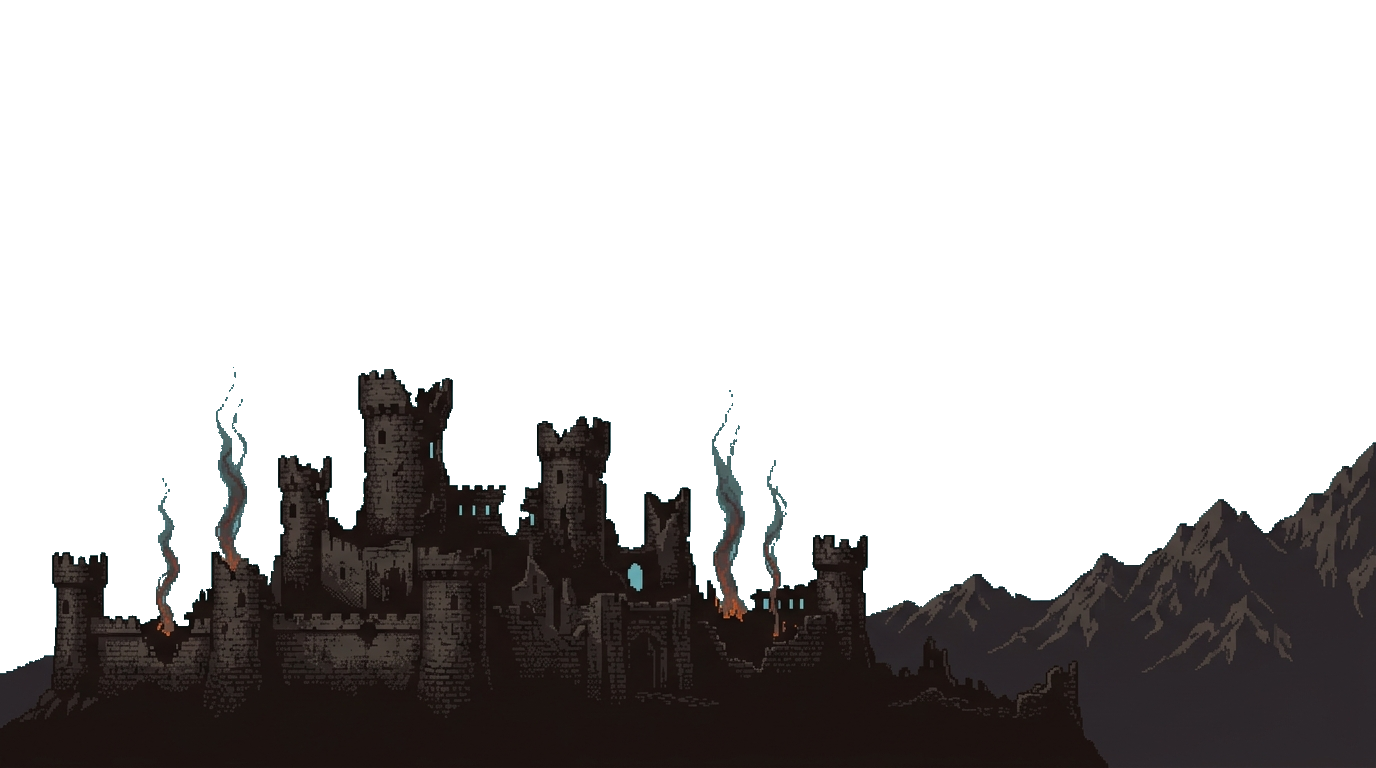
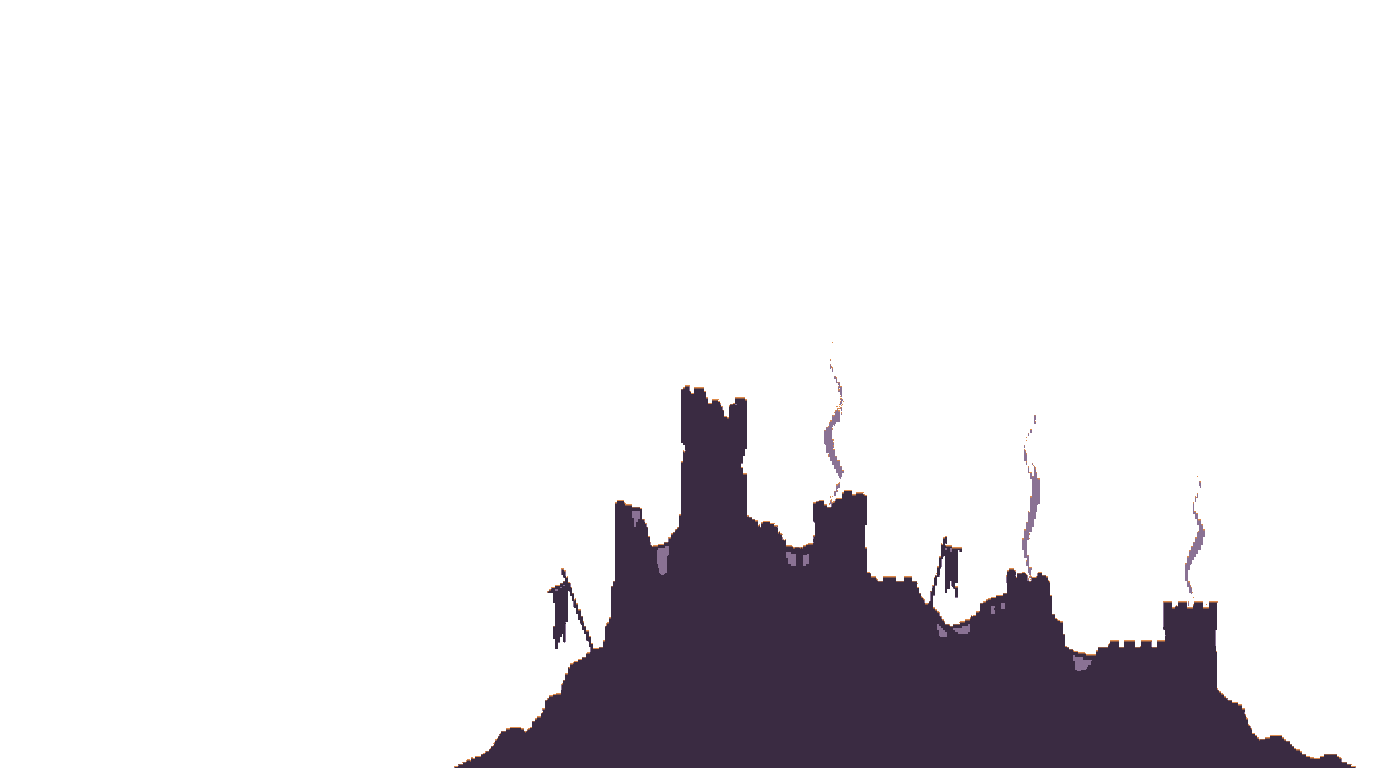
art(ch3): iter5 Kingdom New Lands — posguerra de Flash, siluetas recoloreadas + sol alto + ch3-far nueva

Changed region(s): [[0.0, 0.4688, 1.0, 1.0], [0.75, 0.625, 0.7812, 0.6562]]

diff --git a/public/assets/old/CHANGELOG.md b/public/assets/old/CHANGELOG.md
@@ -629,3 +629,29 @@ Aplica colectivamente a los 4 assets parallax originales de ch4 (Plan 04-04 W2).
 - **Capas actualizadas:** sky, mountains, path — TODAS a iter4. Ninguna quedó en iter2.
 - **Nota técnica:** `forge_sprite` con aspect 16:9 size:0 genera consistentemente imágenes cuadradas (1376×1376) con el contenido centrado verticalmente, lo que impide una composición válida de parallax. Para capas parallax usar `forge_background` con cielo flat descriptivo + PIL flood-fill posterior.
 - **Commit hash post-regen:** `648a573`
+
+## ch3 parallax — iter4 → iter5 "Kingdom New Lands" + ch3-far.png NUEVO (2026-07-09)
+
+- **Versiones guardadas:** `old/ch3-{sky,mountains,path}-2026-07-09-iter4.png`
+- **Razón del cambio:** Rafael 2026-07-09: "los assets del fondo se ven mal cortados y feos
+  mientras que los logos se ven bonitos... composición de posguerra donde murió Flash...
+  usa como ejemplo juegos de Raw Fury... la estética como el juego Kingdom New Lands".
+  Diagnóstico técnico del "mal cortado": alpha binario 0/255 sin anti-aliasing con fringes
+  teal del chroma-key + choque estilístico (cielo 32-bit exuberante vs terreno chunky plano).
+- **Qué se hizo diferente (pipeline silueta Kingdom):**
+  1. `forge_background` banana-2/snes por capa con cielo plano #7EB8C4 → flood-fill BFS
+     desde el borde (no chroma global: preserva humo interior).
+  2. **Recoloreo TOTAL de píxeles opacos** a rampas atmosféricas por bandas de luminancia
+     (far: malva #6a5480 · citadel: ciruela #3a2b3e + humo #8a7290 · path: casi negro
+     #1a1420) → cualquier fringe residual queda absorbido por la rampa. Cero recortes feos.
+  3. Rim light procedural ámbar #de8a4a (2 filas, borde superior = backlit por el sol)
+     en citadel y path.
+  4. Composición: sol regenerado ALTO (cx≈28%, cy≈55% — la c5 original lo dejaba pegado
+     al borde inferior y cualquier terreno lo enterraba); citadel escalada 0.72 NEAREST
+     anclada bottom-right (la nativa ocupaba todo el ancho y tapaba el sol); estandartes
+     del path cruzan el disco solar (firma Kingdom).
+  5. Mock PIL de 4 capas + banda de agua simulada ANTES de instalar (disciplina iter3). PASS.
+- **Nuevo asset:** `ch3-far.png` (cordillera lejana malva, primera generación — sin iter previa).
+  Enum de asset-naming actualizado.
+- **Side-effect perf:** capas de terreno 300-800KB → 6-12KB (siluetas planas comprimen).
+- **Commit hash del cambio:** (commit de este drop)
